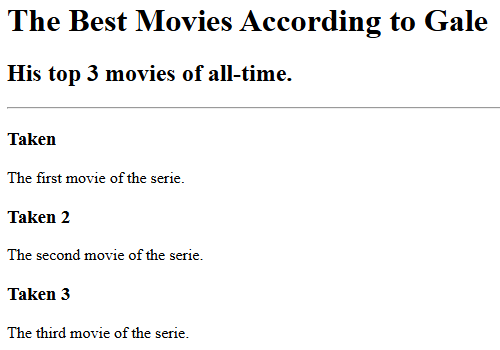
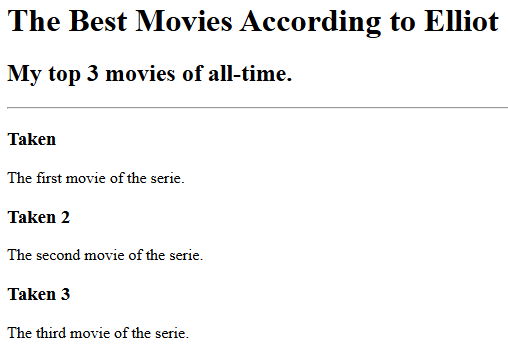
Improve the Portfolio
+ Added the HTML boilerplate to all pages
+ Got rid of placeholder information

diff --git a/public/about.html b/public/about.html
@@ -1,20 +1,41 @@
-<h1>About Me</h1>
-<p>Lorem ipsum dolor sit amet, consectetur adipiscing elit. Pellentesque sem tellus, sagittis non odio nec, interdum
-  elementum lacus. Ut ac justo eget risus sollicitudin fringilla sed ut leo. Ut condimentum elit nec fermentum lobortis.
-  Quisque tincidunt quam nec tincidunt ullamcorper. Integer vitae pretium justo. In placerat volutpat pellentesque.
-  Etiam
-  gravida quam vitae odio pulvinar imperdiet. Vivamus venenatis gravida purus sit amet aliquet. Ut in nibh sed quam
-  laoreet lacinia. Cras cursus ut dui vitae posuere. Vivamus volutpat urna vitae odio fringilla placerat. Nulla vel
-  rhoncus sapien. Phasellus at interdum enim.</p>
+<!DOCTYPE html>
+<html lang="en">
+  <head>
+    <meta charset="UTF-8" />
+    <title>About Me</title>
+  </head>
+  <body>
+    <h1>About Me</h1>
+    <p>
+      Lorem ipsum dolor sit amet, consectetur adipiscing elit. Pellentesque sem
+      tellus, sagittis non odio nec, interdum elementum lacus. Ut ac justo eget
+      risus sollicitudin fringilla sed ut leo. Ut condimentum elit nec fermentum
+      lobortis. Quisque tincidunt quam nec tincidunt ullamcorper. Integer vitae
+      pretium justo. In placerat volutpat pellentesque. Etiam gravida quam vitae
+      odio pulvinar imperdiet. Vivamus venenatis gravida purus sit amet aliquet.
+      Ut in nibh sed quam laoreet lacinia. Cras cursus ut dui vitae posuere.
+      Vivamus volutpat urna vitae odio fringilla placerat. Nulla vel rhoncus
+      sapien. Phasellus at interdum enim.
+    </p>
 
-<p>Curabitur elementum sagittis mollis. In porta nec quam ut semper. Nulla volutpat neque quis lacus mattis eleifend.
-  Phasellus et congue odio. Mauris tristique, nisl quis porttitor porttitor, tortor ante mattis ex, at dictum tortor
-  dolor
-  ut sem. Nullam nec libero non ex porta vulputate a eu sapien. In nec bibendum mauris. Fusce iaculis lectus vel magna
-  laoreet gravida.</p>
+    <p>
+      Curabitur elementum sagittis mollis. In porta nec quam ut semper. Nulla
+      volutpat neque quis lacus mattis eleifend. Phasellus et congue odio.
+      Mauris tristique, nisl quis porttitor porttitor, tortor ante mattis ex, at
+      dictum tortor dolor ut sem. Nullam nec libero non ex porta vulputate a eu
+      sapien. In nec bibendum mauris. Fusce iaculis lectus vel magna laoreet
+      gravida.
+    </p>
 
-<p>Donec euismod vestibulum arcu, a blandit metus mattis ultrices. Integer quis hendrerit justo. Maecenas sed tempor mi.
-  Fusce egestas urna leo. Mauris viverra sem sed libero egestas, volutpat aliquet magna porta. Quisque id diam sed ipsum
-  interdum sollicitudin id quis augue. Donec congue nisl nec massa ornare imperdiet quis quis odio. Etiam ut volutpat
-  nisl. Vestibulum hendrerit justo nibh, eget consequat magna fermentum finibus. Pellentesque et urna fringilla, rutrum
-  neque in, varius leo. Vestibulum efficitur id massa eget pellentesque.</p>
+    <p>
+      Donec euismod vestibulum arcu, a blandit metus mattis ultrices. Integer
+      quis hendrerit justo. Maecenas sed tempor mi. Fusce egestas urna leo.
+      Mauris viverra sem sed libero egestas, volutpat aliquet magna porta.
+      Quisque id diam sed ipsum interdum sollicitudin id quis augue. Donec
+      congue nisl nec massa ornare imperdiet quis quis odio. Etiam ut volutpat
+      nisl. Vestibulum hendrerit justo nibh, eget consequat magna fermentum
+      finibus. Pellentesque et urna fringilla, rutrum neque in, varius leo.
+      Vestibulum efficitur id massa eget pellentesque.
+    </p>
+  </body>
+</html>

diff --git a/public/birthday-invite.html b/public/birthday-invite.html
@@ -1,18 +1,27 @@
-<h1>It's My Birthday!</h1>
-<h2>On the 12th May</h2>
-<img
-  src="https://raw.githubusercontent.com/appbrewery/webdev/main/birthday-cake3.4.jpeg"
-  alt="A pruple birthday cake with candles. - Image"
-/>
-<h3>What to bring:</h3>
-<ul>
-  <li>Baloons (I love baloons)</li>
-  <li>Cake (I'm really good at eating)</li>
-  <li>An eppetite (There will be lots of food)</li>
-</ul>
-<h3>This is where you need to go:</h3>
-<a
-  href="https://www.google.com/maps/@35.7040744,139.5577317,3a,75y,289.6h,87.01t,0.72r/data=!3m6!1e1!3m4!1sgT28ssf0BB2LxZ63JNcL1w!2e0!7i13312!8i6656"
->
-  Google Maps Link
-</a>
+<!DOCTYPE html>
+<html lang="en">
+  <head>
+    <meta charset="UTF-8" />
+    <title>Birthday Invite Project</title>
+  </head>
+  <body>
+    <h1>It's My Birthday!</h1>
+    <h2>On the 12th May</h2>
+    <img
+      src="https://raw.githubusercontent.com/appbrewery/webdev/main/birthday-cake3.4.jpeg"
+      alt="A pruple birthday cake with candles. - Image"
+    />
+    <h3>What to bring:</h3>
+    <ul>
+      <li>Baloons (I love baloons)</li>
+      <li>Cake (I'm really good at eating)</li>
+      <li>An eppetite (There will be lots of food)</li>
+    </ul>
+    <h3>This is where you need to go:</h3>
+    <a
+      href="https://www.google.com/maps/@35.7040744,139.5577317,3a,75y,289.6h,87.01t,0.72r/data=!3m6!1e1!3m4!1sgT28ssf0BB2LxZ63JNcL1w!2e0!7i13312!8i6656"
+    >
+      Google Maps Link
+    </a>
+  </body>
+</html>

diff --git a/public/movie-ranking.html b/public/movie-ranking.html
@@ -1,11 +1,18 @@
-<!-- Write your code below -->
-<h1>The Best Movies According to John</h1>
-<h2>His top 3 movies of all-time.</h2>
-<hr />
-
-<h3>Taken</h3>
-<p>The first movie of the serie.</p>
-<h3>Taken 2</h3>
-<p>The second movie of the serie.</p>
-<h3>Taken 3</h3>
-<p>The third movie of the serie.</p>
+<!DOCTYPE html>
+<html lang="en">
+  <head>
+    <meta charset="UTF-8" />
+    <title>Movie Ranking Project</title>
+  </head>
+  <body>
+    <h1>The Best Movies According to Elliot</h1>
+    <h2>My top 3 movies of all-time.</h2>
+    <hr />
+    <h3>Taken</h3>
+    <p>The first movie of the serie.</p>
+    <h3>Taken 2</h3>
+    <p>The second movie of the serie.</p>
+    <h3>Taken 3</h3>
+    <p>The third movie of the serie.</p>
+  </body>
+</html>

diff --git a/public/contact.html b/public/contact.html
@@ -1,9 +1,18 @@
-<h1>Contact Me</h1>
-<p>Tel: +123456789</p>
-<p>Email: me@gmail.com</p>
-<p>Address:</p>
-<p>
-  123 North Street<br />
-  Some City<br />
-  Some Country <br />
-</p>
+<!DOCTYPE html>
+<html lang="en">
+  <head>
+    <meta charset="UTF-8" />
+    <title>Contact Me</title>
+  </head>
+  <body>
+    <h1>Contact Me</h1>
+    <p>Tel: +123456789</p>
+    <p>Email: me@gmail.com</p>
+    <p>Address:</p>
+    <p>
+      123 North Street<br />
+      Some City<br />
+      Some Country <br />
+    </p>
+  </body>
+</html>

diff --git a/index.html b/index.html
@@ -2,11 +2,11 @@
 <html lang="en">
   <head>
     <meta charset="UTF-8" />
-    <title>Portfolio</title>
+    <title>Elliot's Portfolio</title>
   </head>
 
   <body>
-    <h1>John Doe's Portfolio</h1>
+    <h1>Elliot Montgomery's Portfolio</h1>
     <h2>I'm a Web Developer</h2>
     <hr />
     <a href="./public/movie-ranking.html"><h3>Movie Ranking Project</h3></a>
